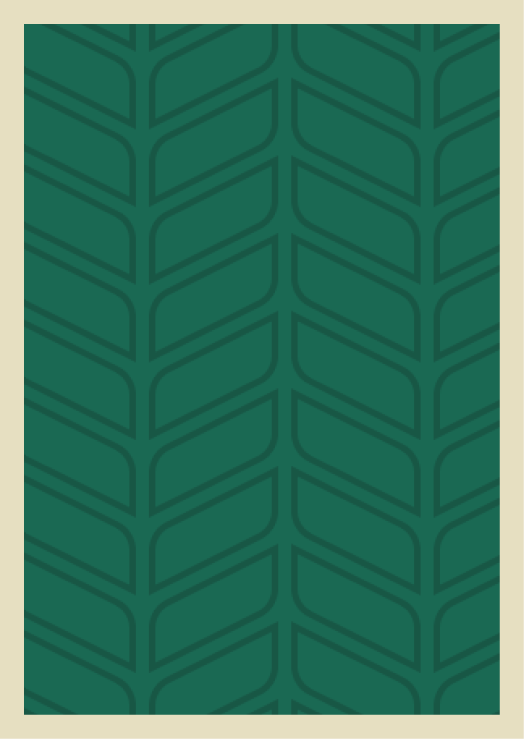
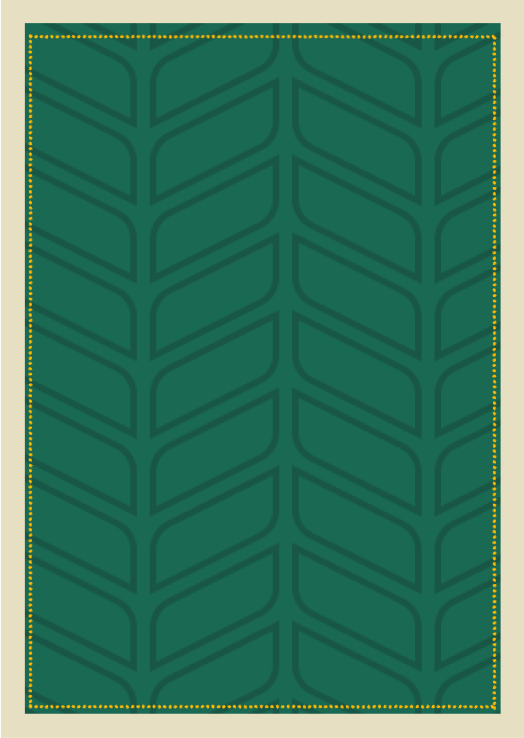
95% done,Color and dotted line done only responsiveness left

Changed region(s): [[0.0305, 0.0312, 0.9771, 0.9661]]

diff --git a/src/components/themes/demo.js b/src/components/themes/demo.js
@@ -36,9 +36,9 @@ const Themes = () => {
   ];
 
   return (
-    <section className="bg-gradient-to-br from-teal-700 to-teal-600 py-20 px-6 md:px-10 lg:px-16 min-h-screen flex items-center justify-center">
+    <section className="bg-[#1A6953] py-20 px-6 md:px-10 lg:px-16 min-h-screen flex items-center justify-center">
       <div className="w-full max-w-6xl">
-        <h2 className="text-5xl md:text-6xl font-bold text-yellow-400 text-center mb-12 md:mb-16 tracking-wide font-poppins">
+        <h2 className="text-5xl md:text-6xl font-bold text-[#FFC627] text-center mb-12 md:mb-16 tracking-wide font-poppins">
           Themes
         </h2>
         <div className="grid grid-cols-1 sm:grid-cols-2 lg:grid-cols-3 gap-8 md:gap-10 justify-items-center">
@@ -47,31 +47,27 @@ const Themes = () => {
               key={theme.id}
               className="transition-transform duration-300 hover:scale-105 hover:-translate-y-2 cursor-pointer"
             >
-              {/* Outermost stamp layer */}
-              <div className="relative w-64 h-80">
+              <div className="relative w-64 h-80 sm:w-72 sm:h-96 md:w-80 md:h-[26rem] lg:w-[22rem] lg:h-[28rem]">
                 <Image
                   src="/tracks/stampLast.png"
                   alt="stamp border outer"
                   width={262}
                   height={369}
-                  className="absolute inset-0 object-cover z-20"
+                  className="absolute inset-0 object-cover z-20 scale-[1.05]"
                 />
-                
-                {/* Second stamp layer */}
+
                 <Image
                   src="/tracks/stampPenultimate.png"
                   alt="stamp border middle"
                   width={220}
                   height={310}
-                  className="absolute object-cover z-30"
-                  style={{ right: '17px', top: '53.5%', transform: 'translateY(-50%)' }}
+                  className="absolute inset-4 sm:inset-5 md:inset-6 lg:inset-7 object-cover z-30"
                 />
 
-                {/* Title overlay layer */}
-                <div className="absolute inset-0 flex items-start justify-center pt-12 z-50 pointer-events-none">
+                <div className="absolute inset-0 flex items-start justify-center pt-12 sm:pt-16 md:pt-20 z-50 pointer-events-none">
                   <span
-                    className="text-4xl md:text-5xl font-semibold text-center drop-shadow"
-                    style={{ color: '#ffffff', marginTop: '-20px' }}
+                    className="text-3xl leading-tight sm:text-4xl md:text-5xl font-semibold text-center drop-shadow mt-2 sm:mt-1 md:-mt-2"
+                    style={{ color: '#ffffff' }}
                   >
                     {theme.id === 6 ? (
                       <>
@@ -85,15 +81,8 @@ const Themes = () => {
                   </span>
                 </div>
 
-                {/* Content inside */}
-                <div className="absolute inset-0 flex flex-col items-center justify-center p-6 z-40">
-                  <div 
-                    className={`relative ${theme.id === 4 ? 'w-80 h-80 md:w-[26rem] md:h-[26rem]' : 'w-52 h-52 md:w-56 md:h-56'}`}
-                    style={{
-                      marginTop: theme.id === 1 ? '20px' : theme.id === 2 ? '28px' : theme.id === 4 ? '120px' : theme.id === 5 ? '-8px' : theme.id === 6 ? '112px' : theme.id === 3 ? '24px' : '28px',
-                      marginLeft: theme.id === 4 ? '120px' : theme.id === 6 ? '48px' : '0px'
-                    }}
-                  >
+                <div className="absolute inset-0 flex items-center justify-center z-40">
+                  <div className="relative w-36 h-36 sm:w-44 sm:h-44 md:w-52 md:h-52 lg:w-56 lg:h-56">
                     <Image
                       src={theme.image}
                       alt={theme.title}
